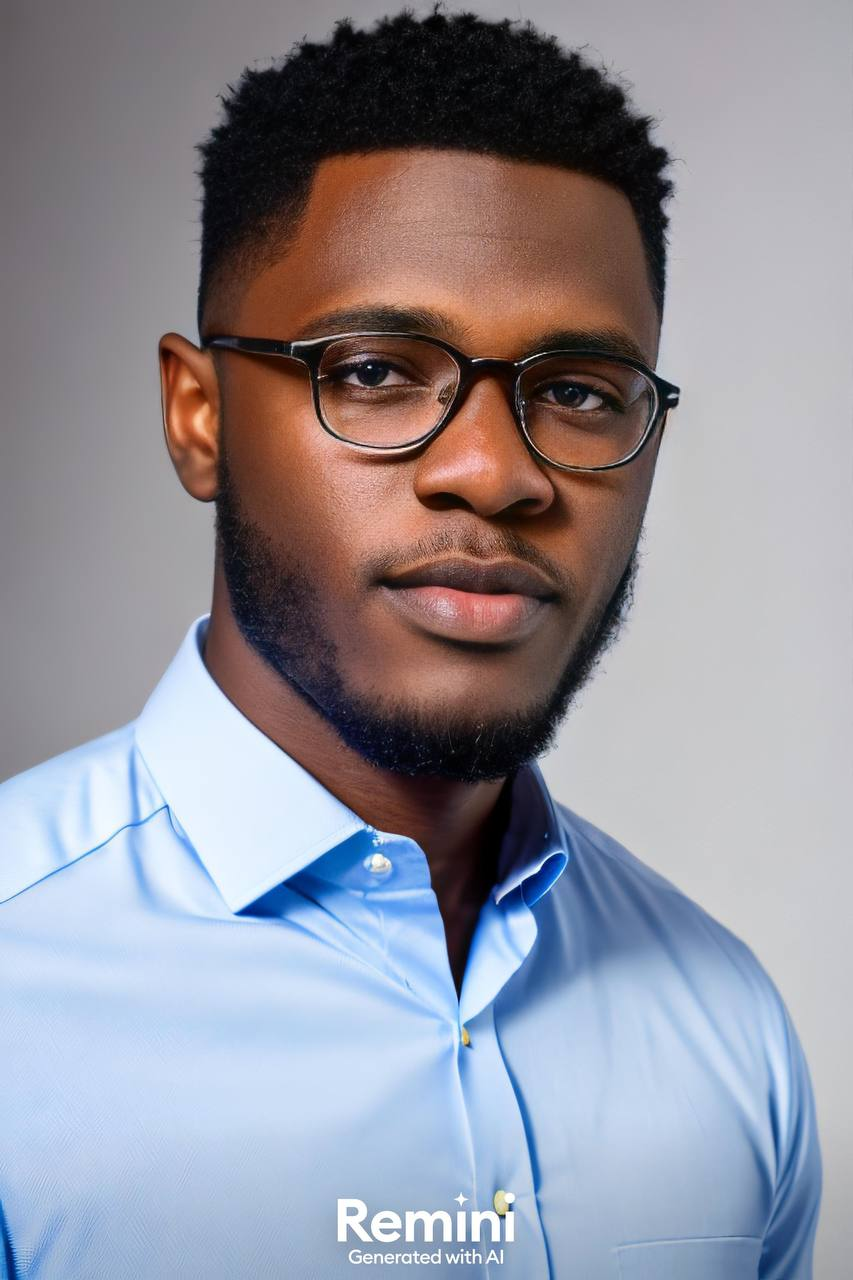
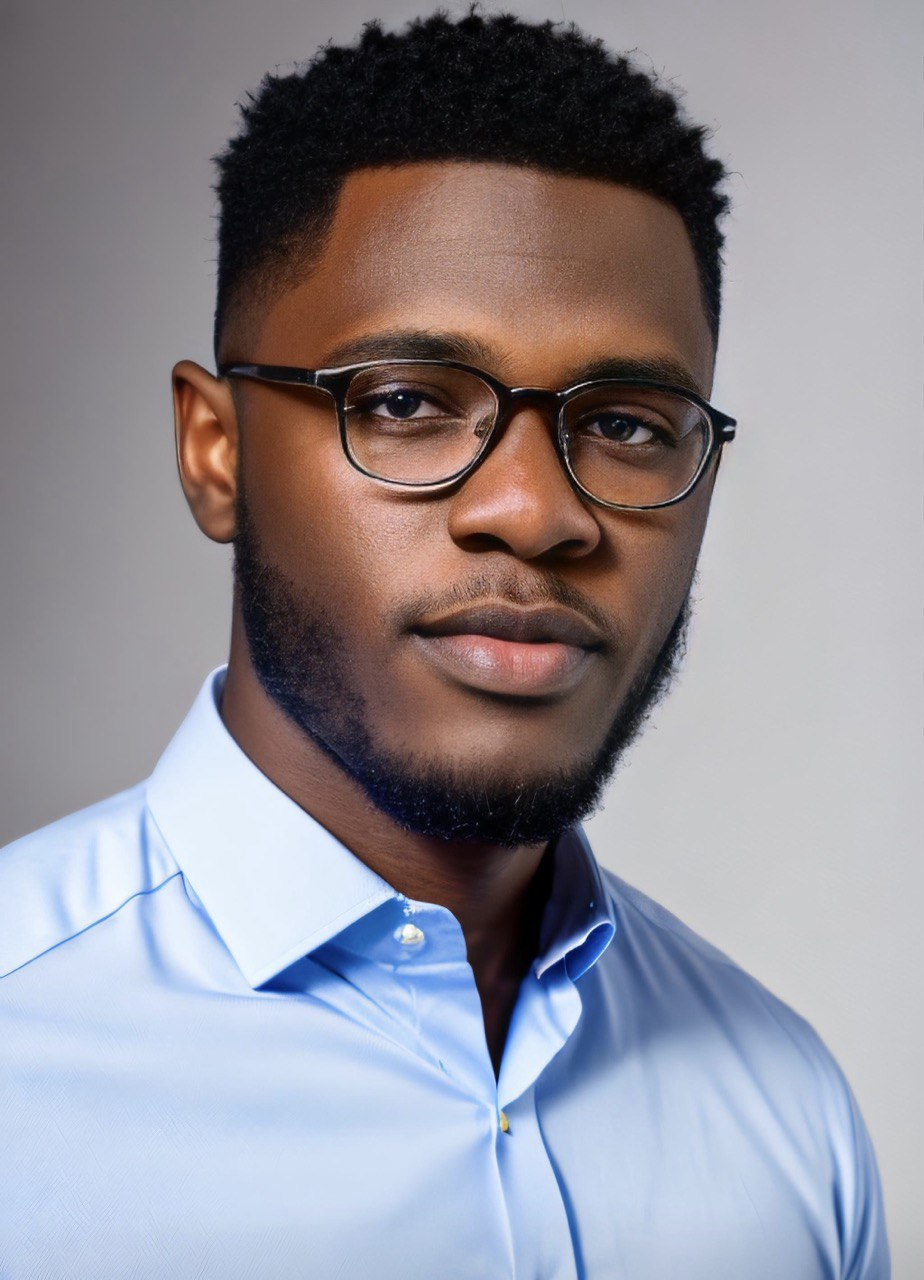
first commit

diff --git a/client/src/scenes/hero/index.tsx b/client/src/scenes/hero/index.tsx
@@ -1,0 +1,42 @@
+import picture from "../../assets/test.jpg";
+import { BsGithub, BsLinkedin, BsFillTelephoneFill } from "react-icons/bs";
+import { BiLogoGmail } from "react-icons/bi";
+
+type Props = {};
+
+function Hero({}: Props) {
+  return (
+    <div className="flex justify-between mt-24">
+      <div className=" w-[60%] mr-6 items-center text-white mt-48">
+        <p className="text-3xl font-bold font-montserrat mb-8">
+          Hi, My name is Solomon.
+        </p>
+        <p className="text-2xl font-semibold font-montserrat mb-4">
+          Full-Stack Web Developer
+        </p>
+        <p className="text-sm font-light font-montserrat mb-4 text-justify leading-6">
+          I have a wide range of skills and I currently offer services in
+          front-end web development and back-end web development. I can also
+          slot into an AI/Machine Learning Role. I am always looking to improve
+          my skill set, collaborate on projects and expand my interests in tech,
+          you can reach me through any of these platforms.
+        </p>
+        <div className="px-10 mt-8 flex justify-between">
+          <BsGithub className="h-9 w-9 text-gray-50" />
+          <BsLinkedin className="h-9 w-9 text-gray-50" />
+          <BiLogoGmail className="h-9 w-9 text-gray-50" />
+          <BsFillTelephoneFill className="h-9 w-9 text-gray-50" />
+        </div>
+      </div>
+      <div>
+        <img
+          src={picture}
+          alt="portfolio picture"
+          className="w-[348px] h-[521px]"
+        />
+      </div>
+    </div>
+  );
+}
+
+export default Hero;

diff --git a/client/src/scenes/navbar/index.tsx b/client/src/scenes/navbar/index.tsx
@@ -3,12 +3,12 @@ type Props = {};
 
 function NavBar({}: Props) {
   return (
-    <div className="flex justify-between items-center">
+    <div className="flex justify-between items-center md:mt-8 lg:mt-12">
       <div>
         <h1 className="text-white text-4xl font-gloria font-bold">ASO</h1>
       </div>
       <div className="flex items-center justify-between gap-4">
-        <button className="p-1 bg-white rounded-md text-primary-dark text-sm">
+        <button className="py-1 px-2 font-montserrat bg-white rounded-md text-primary-dark text-sm">
           Resume
         </button>
         <BsFillSunFill className="h-8 w-8 text-gray-50" />

diff --git a/client/src/App.tsx b/client/src/App.tsx
@@ -1,3 +1,4 @@
+import Hero from "./scenes/hero";
 import NavBar from "./scenes/navbar";
 
 function App() {
@@ -5,6 +6,7 @@ function App() {
     <div className=" bg-primary-dark">
       <div className="max-w-[1200px] mx-auto items-center px-4 py-2">
         <NavBar />
+        <Hero />
       </div>
     </div>
   );
